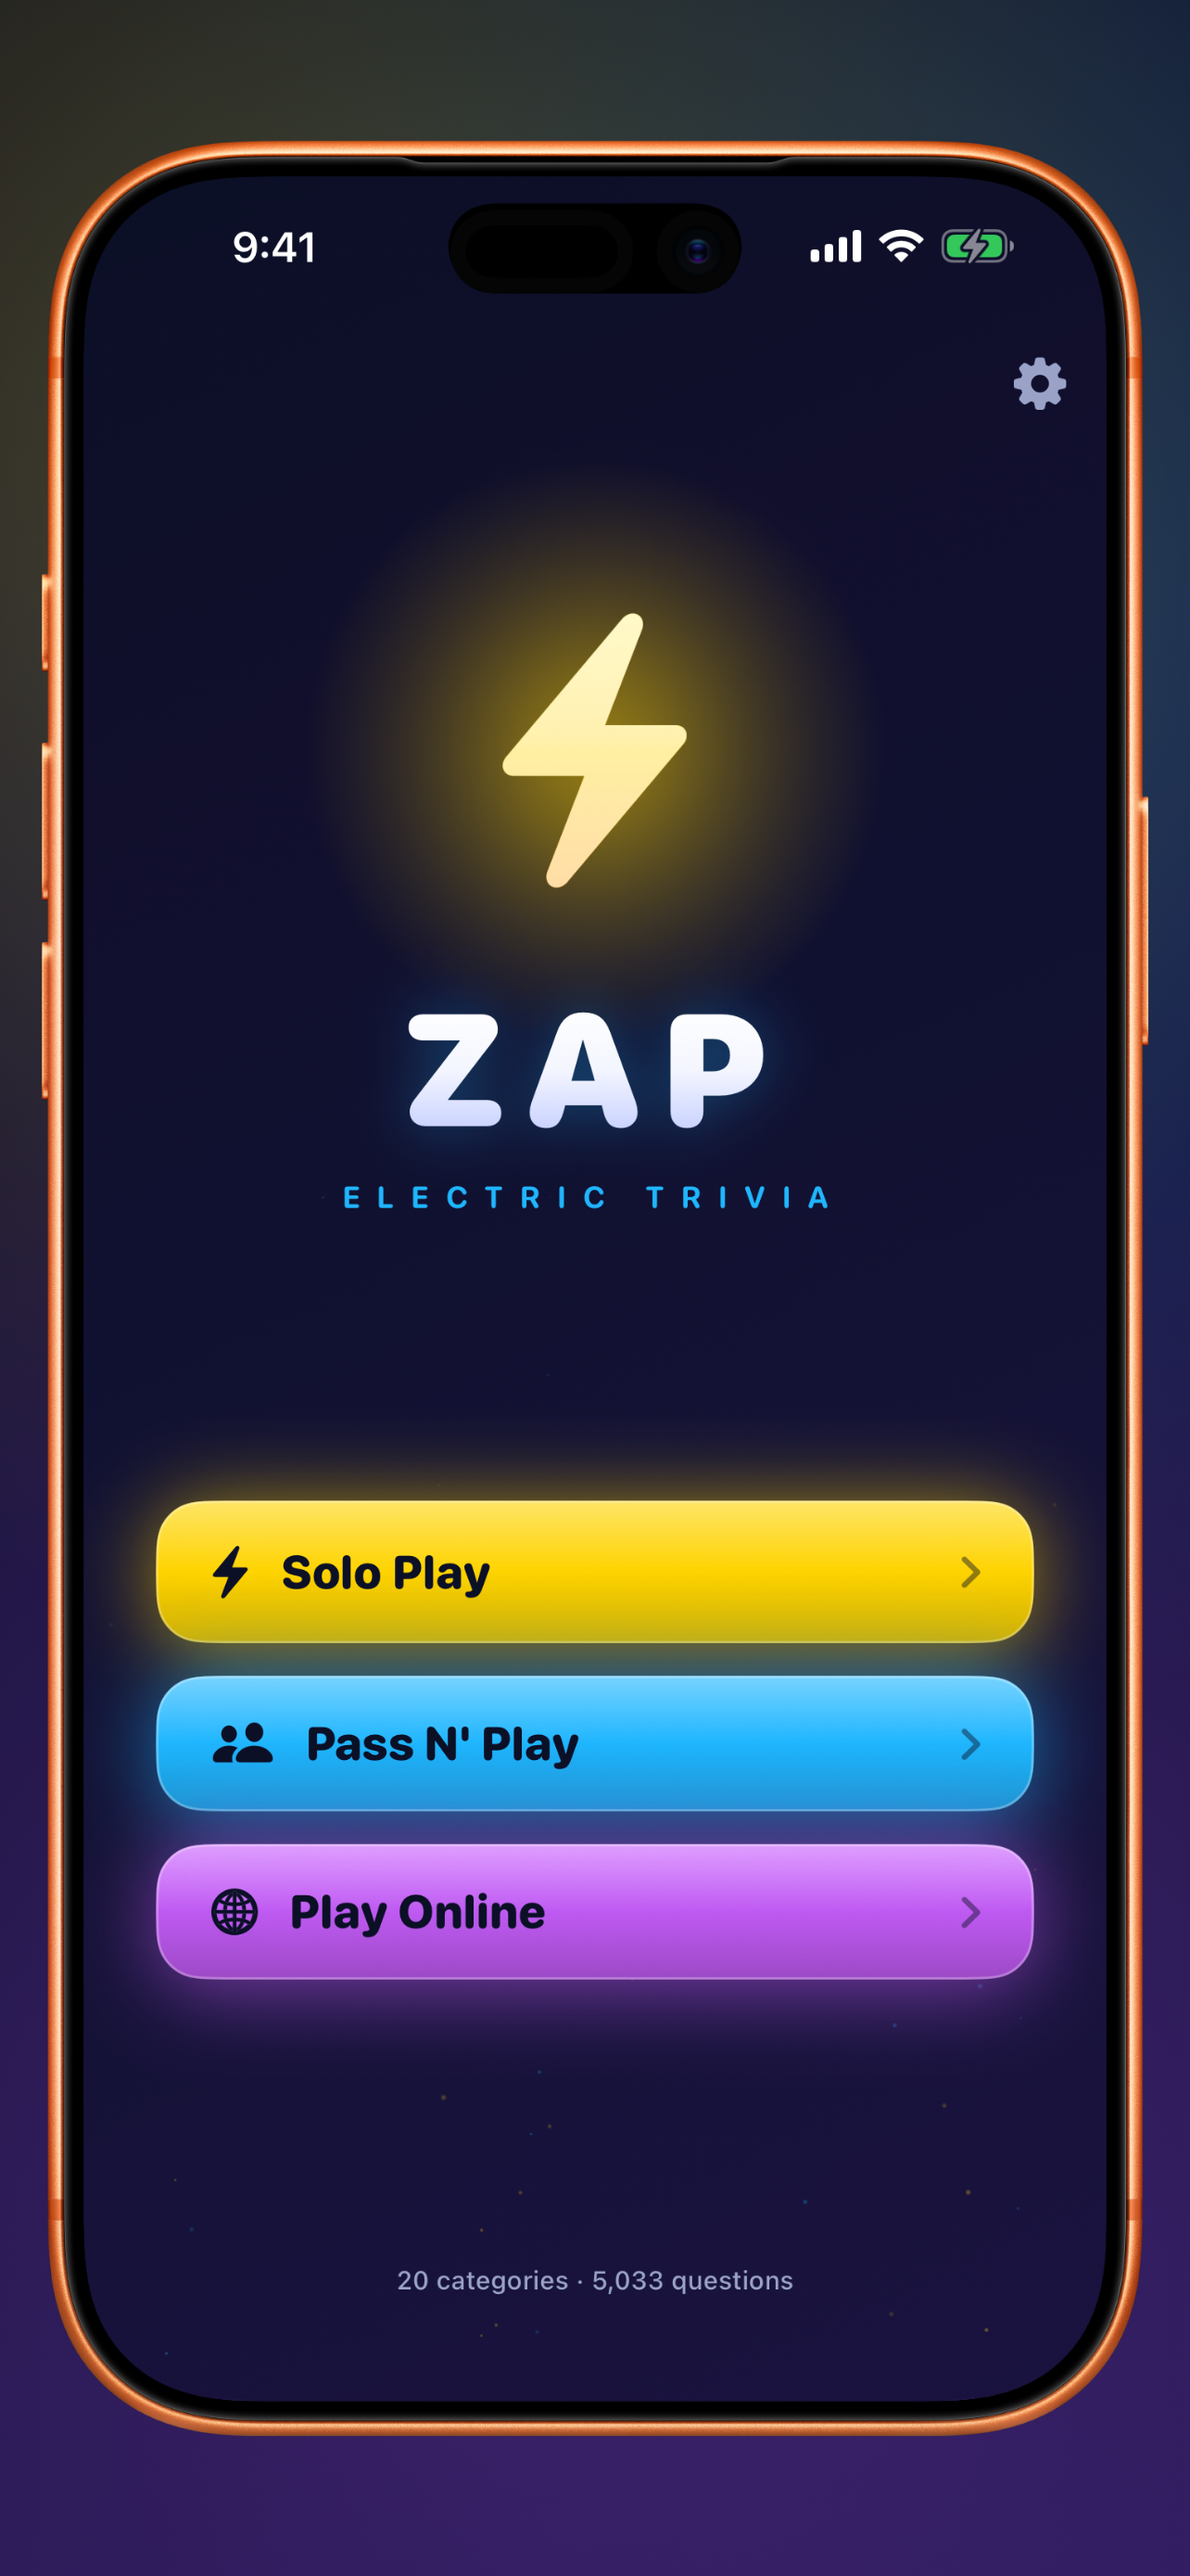
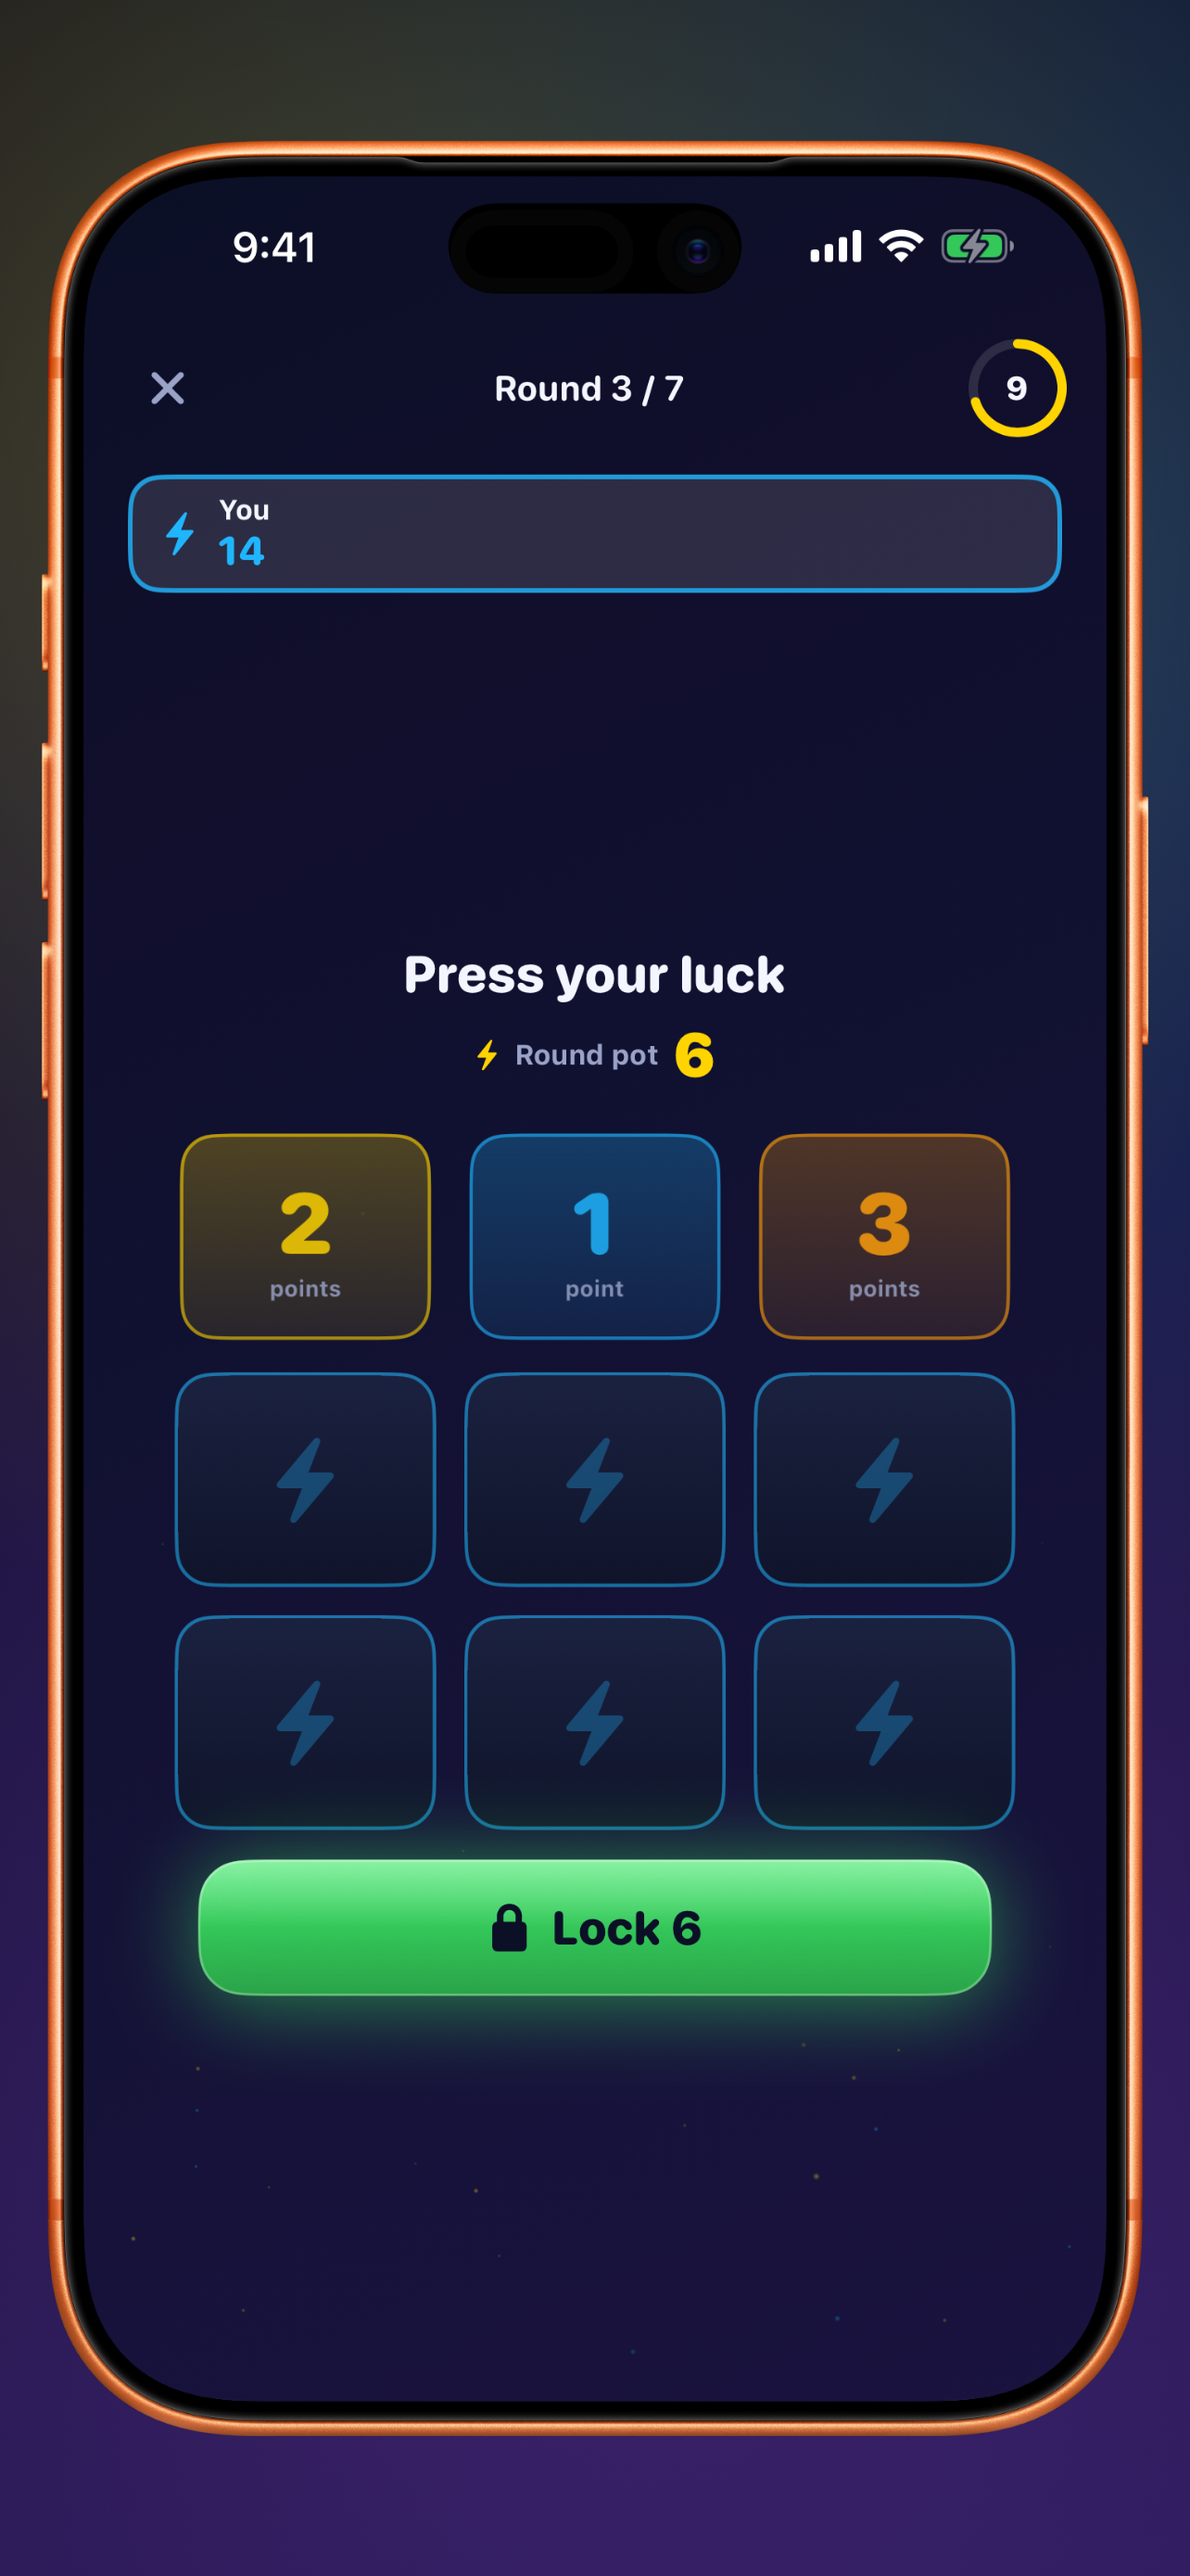
Zap portfolio: card-mechanic renders + copy
New framed screenshots (press-your-luck card draw hero, menu, categories
with Bible, results) and rewritten copy for the trivia-meets-blackjack
mechanic: press your luck, 21 categories / 5,000+ questions, updated
leaderboards. Lightning now strikes on a Zap, not on correct answers.

diff --git a/apps/zap/index.html b/apps/zap/index.html
@@ -4,9 +4,9 @@
   <meta charset="UTF-8">
   <meta name="viewport" content="width=device-width, initial-scale=1.0">
   <title>Zap - Electric Trivia Duels</title>
-  <meta name="description" content="Fast, electric trivia for iPhone & iPad. Answer quickly to bank big points, fire lightning on every correct answer, and challenge friends over Game Center or right inside iMessage. 19 categories, 4,000+ questions, updated over the air.">
+  <meta name="description" content="Press-your-luck trivia for iPhone & iPad: win the trivia race, then flip cards to bank points — but don't draw a Zap. Duel friends over Game Center or right inside iMessage. 21 categories, 5,000+ questions, updated over the air.">
   <meta property="og:title" content="Zap - Electric Trivia Duels">
-  <meta property="og:description" content="Fast, electric trivia for iPhone & iPad. Answer fast, chain streaks, and duel friends over Game Center or iMessage. 19 categories, 4,000+ questions.">
+  <meta property="og:description" content="Trivia meets press-your-luck: race to answer, then flip cards to bank points without getting Zapped. Duel friends over Game Center or iMessage. 21 categories, 5,000+ questions.">
   <meta property="og:type" content="game">
   <meta property="og:url" content="https://wemiller.com/apps/zap/">
   <meta property="og:image" content="https://wemiller.com/apps/zap/assets/images/icon.png">
@@ -47,9 +47,9 @@
     <div class="hero-content">
       <div class="hero-text">
         <p class="hero-subtitle">⚡ Zap</p>
-        <h1 class="hero-title">Answer Fast. Zap Your Friends.</h1>
+        <h1 class="hero-title">Race to Answer. Press Your Luck.</h1>
         <p class="hero-description">
-          Electric trivia built for head-to-head play. Lock in answers fast to bank bigger points, fire a bolt of lightning on every correct one, and challenge friends over Game Center — or take your turn right inside an iMessage. 19 categories, 4,000+ questions, delivered fresh over the air.
+          Trivia meets blackjack. Win the trivia race, then press your luck on a grid of cards — keep flipping to grow your pot or lock it in, but draw a Zap and you bust. Duel friends over Game Center or right inside an iMessage. 21 categories, 5,000+ questions, delivered fresh over the air.
         </p>
         <div class="hero-cta">
           <a href="https://apps.apple.com/us/app/zap-trivia/id6776907420" class="btn-buy" target="_blank" rel="noopener noreferrer">Download on the App Store</a>
@@ -72,14 +72,14 @@
     </div>
     <div class="feature-grid">
       <div class="feature-card">
-        <div class="feature-icon">⚡</div>
-        <h3 class="feature-title">Speed-Scored Answers</h3>
-        <p class="feature-description">The faster you lock in a correct answer, the bigger the spark. A buzzer-beater still counts — but instant recall pays the full bonus.</p>
+        <div class="feature-icon">🃏</div>
+        <h3 class="feature-title">Press Your Luck</h3>
+        <p class="feature-description">Answer correctly and you earn a draw from a shared 3×3 grid. Flip cards to bank 1, 2, or 3 points — keep going or lock your pot. But two Zaps are hiding, and one bust wipes the round.</p>
       </div>
       <div class="feature-card">
         <div class="feature-icon">🎯</div>
-        <h3 class="feature-title">19 Categories</h3>
-        <p class="feature-description">General Knowledge, Science, History, Geography, Film & TV, Music, Sports, Video Games, Anime, and more — over 4,000 questions in all.</p>
+        <h3 class="feature-title">21 Categories</h3>
+        <p class="feature-description">General Knowledge, Science, History, Geography, Film & TV, Music, Sports, Video Games, Anime, Bible, and more — over 5,000 questions in all.</p>
       </div>
       <div class="feature-card">
         <div class="feature-icon">📲</div>
@@ -89,7 +89,7 @@
       <div class="feature-card">
         <div class="feature-icon">🏆</div>
         <h3 class="feature-title">Game Center Matches</h3>
-        <p class="feature-description">Async turn-based duels with friends or random opponents, plus wins, best-score, and streak leaderboards.</p>
+        <p class="feature-description">Live head-to-head and async turn-based duels with friends or random opponents, plus Most Wins, Solo High Score, Biggest Round, and Lucky Streak leaderboards and 12 achievements.</p>
       </div>
       <div class="feature-card">
         <div class="feature-icon">👥</div>
@@ -108,7 +108,7 @@
     <div class="section-header">
       <p class="section-subtitle">How It Plays</p>
       <h2>Fair, Fast, Electric</h2>
-      <p>Both players always get the same questions in the same order — so every duel comes down to speed and smarts.</p>
+      <p>Both players get the same questions and the same shuffled card grid — so every duel comes down to speed, smarts, and nerve.</p>
     </div>
   </section>
 
